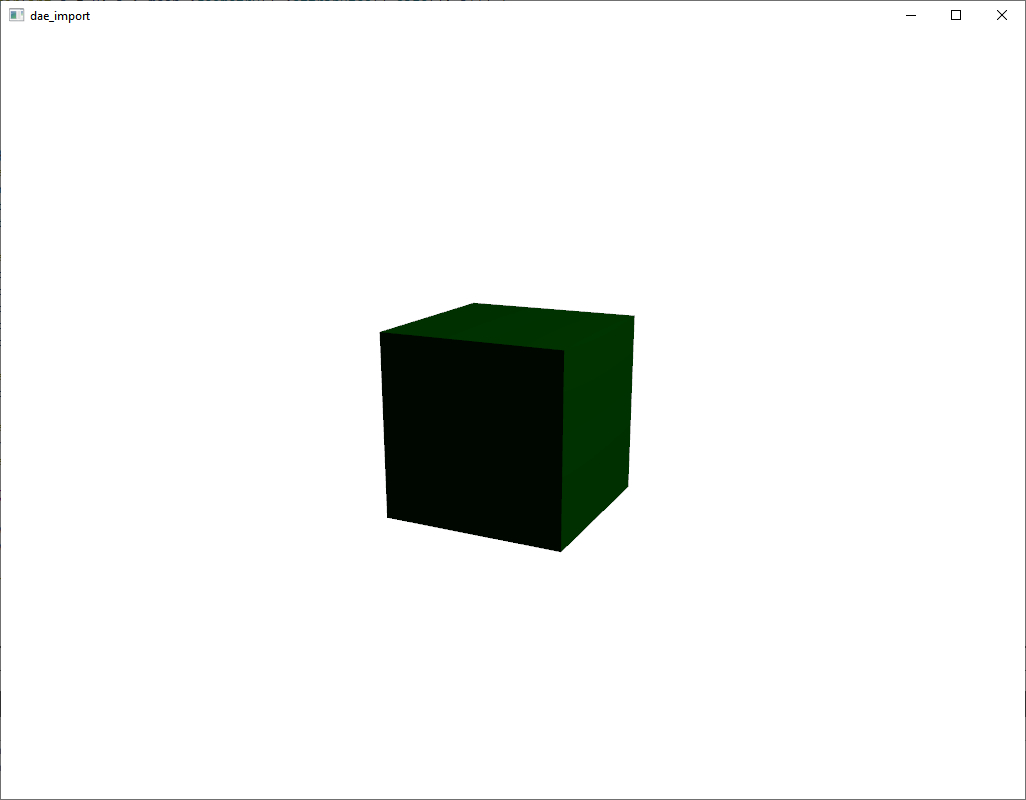
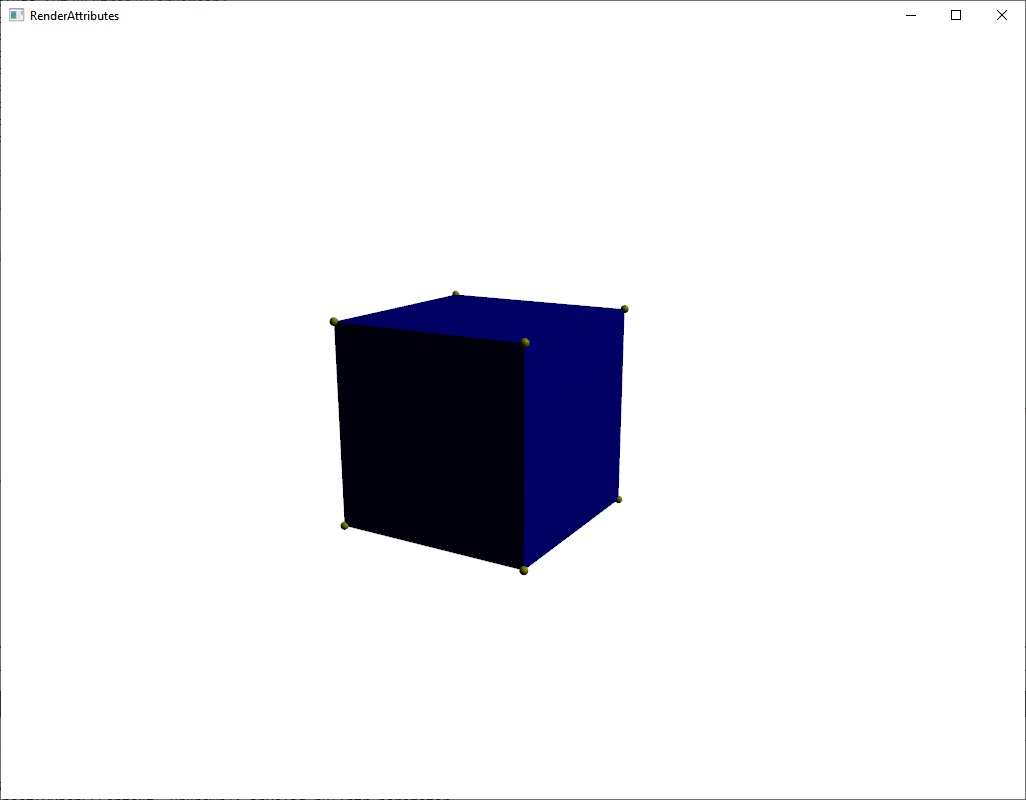
update c++

Changed region(s): [[0.3119, 0.3438, 0.6238, 0.7188], [0.0312, 0.0, 0.1248, 0.0312], [0.9981, 0.5, 1.0, 0.5312]]

diff --git a/main.cpp b/main.cpp
@@ -8,6 +8,8 @@
 #include <QOrbitCameraController>
 #include <QPickEvent>
 #include <QScreenRayCaster>
+#include <QSphereMesh>
+#include <QObjectPicker>
 
 class Pick : public QObject
 {
@@ -15,10 +17,15 @@ public:
     Pick(Qt3DRender::QScreenRayCaster * r) : ray(r) {}
 
 public slots:
+    void picked(Qt3DRender::QPickEvent * e) {
+        qDebug() << "released at " << e->position().x() << "," << e->position().y();
+        ray->trigger(QPoint(e->position().x(), e->position().y()));
+    }
+
     void rayHit(const Qt3DRender::QAbstractRayCaster::Hits hits) {
         qDebug() << "rayHit";
         for(auto h : hits) {
-            qDebug() << h.entity() << " " << h.vertex1Index() << "," << h.vertex2Index() << "," << h.vertex3Index();
+            qDebug() << h.entity()->objectName() << " " << h.worldIntersection().x() << "," << h.worldIntersection().y() << "," << h.worldIntersection().z();
         }
     }
 
@@ -34,7 +41,8 @@ int main(int argc, char *argv[])
 
     auto root = new Qt3DCore::QEntity;
 
-    auto torus = new Qt3DCore::QEntity(root);
+    auto cube = new Qt3DCore::QEntity(root);
+    cube->setObjectName("CCube");
     auto mesh = new Qt3DExtras::QCuboidMesh;
     mesh->setXExtent(1.f);
     mesh->setYExtent(1.f);
@@ -50,25 +58,51 @@ int main(int argc, char *argv[])
                     mesh->geometry()->attributes().at(i)->byteStride();
     }
     auto material = new Qt3DExtras::QPhongMaterial;
-    material->setDiffuse(Qt::red);
-    torus->addComponent(mesh);
-    torus->addComponent(material);
+    material->setDiffuse(Qt::blue);
+    cube->addComponent(mesh);
+    cube->addComponent(material);
+
+    auto dotMesh = new Qt3DExtras::QSphereMesh;
+    dotMesh->setRadius(0.02);
+    auto dotMaterial = new Qt3DExtras::QPhongMaterial;
+    dotMaterial->setDiffuse(Qt::yellow);
+    Qt3DCore::QTransform dotTransform[8];
+    dotTransform[0].setTranslation(QVector3D(0.5, 0.5, 0.5));
+    dotTransform[1].setTranslation(QVector3D(0.5, -0.5, 0.5));
+    dotTransform[2].setTranslation(QVector3D(-0.5, -0.5, 0.5));
+    dotTransform[3].setTranslation(QVector3D(-0.5, 0.5, 0.5));
+    dotTransform[4].setTranslation(QVector3D(0.5, 0.5, -0.5));
+    dotTransform[5].setTranslation(QVector3D(0.5, -0.5, -0.5));
+    dotTransform[6].setTranslation(QVector3D(0.5, -0.5, -0.5));
+    dotTransform[7].setTranslation(QVector3D(-0.5, 0.5, -0.5));
+    for(int i = 0; i < 8; i++) {
+        auto dot = new Qt3DCore::QEntity(root);
+        dot->addComponent(dotMesh);
+        dot->addComponent(dotMaterial);
+        dot->addComponent(&dotTransform[i]);
+    }
 
     auto camera = window->camera();
     camera->setProjectionType(Qt3DRender::QCameraLens::PerspectiveProjection);
-    camera->setViewCenter(QVector3D(0.f,0.f,0.f));
-    camera->setPosition(QVector3D(0.f,0.f,10.f));
-    camera->setNearPlane(0.01f);
-    camera->setFarPlane(100000.f);
+    camera->setViewCenter(QVector3D(0.0f, 0.0f, 0.0f));
+    camera->setPosition(QVector3D(0.0f, 0.0f, 10.0f));
+    camera->setUpVector(QVector3D(0.0f, 1.0f, 0.0f));
+    camera->setNearPlane(0.1f);
+    camera->setFarPlane(1000.f);
+    camera->setFieldOfView(45.0f);
+    camera->setAspectRatio(16/9);
 
     auto camController = new Qt3DExtras::QOrbitCameraController(root);
     camController->setCamera(camera);
 
+    auto picker = new Qt3DRender::QObjectPicker(root);
     auto ray = new Qt3DRender::QScreenRayCaster(root);
     ray->setRunMode(Qt3DRender::QAbstractRayCaster::SingleShot);
     auto pick = new Pick(ray);
-
+    QObject::connect(picker, &Qt3DRender::QObjectPicker::released, pick, &Pick::picked);
     QObject::connect(ray, &Qt3DRender::QScreenRayCaster::hitsChanged, pick, &Pick::rayHit);
+    root->addComponent(picker);
+    root->addComponent(ray);
 
     window->setRootEntity(root);
     window->show();

diff --git a/README.md b/README.md
@@ -2,9 +2,6 @@
 
 ![alt text](sample.png)
 <br/>
-qml: Screen hits 0<br/>
-qml: Screen hits 1<br/>
-qml:   CCube 8.989160537719727 -0.9222724437713623 -0.8834399580955505 0.9999990463256836<br/>
-qml: Screen hits 0<br/>
-qml: Screen hits 1<br/>
-qml:   CCube 8.978507041931152 -0.9513967633247375 -0.7281098961830139 1<br/>
+"CCube"   0.750946 , 0.36712 , 0.226504<br/>
+"CCube"   0.681485 , -0.484576 , 0.225314<br/>
+"CCube"   0.747379 , -0.0121237 , 0.437351<br/>
